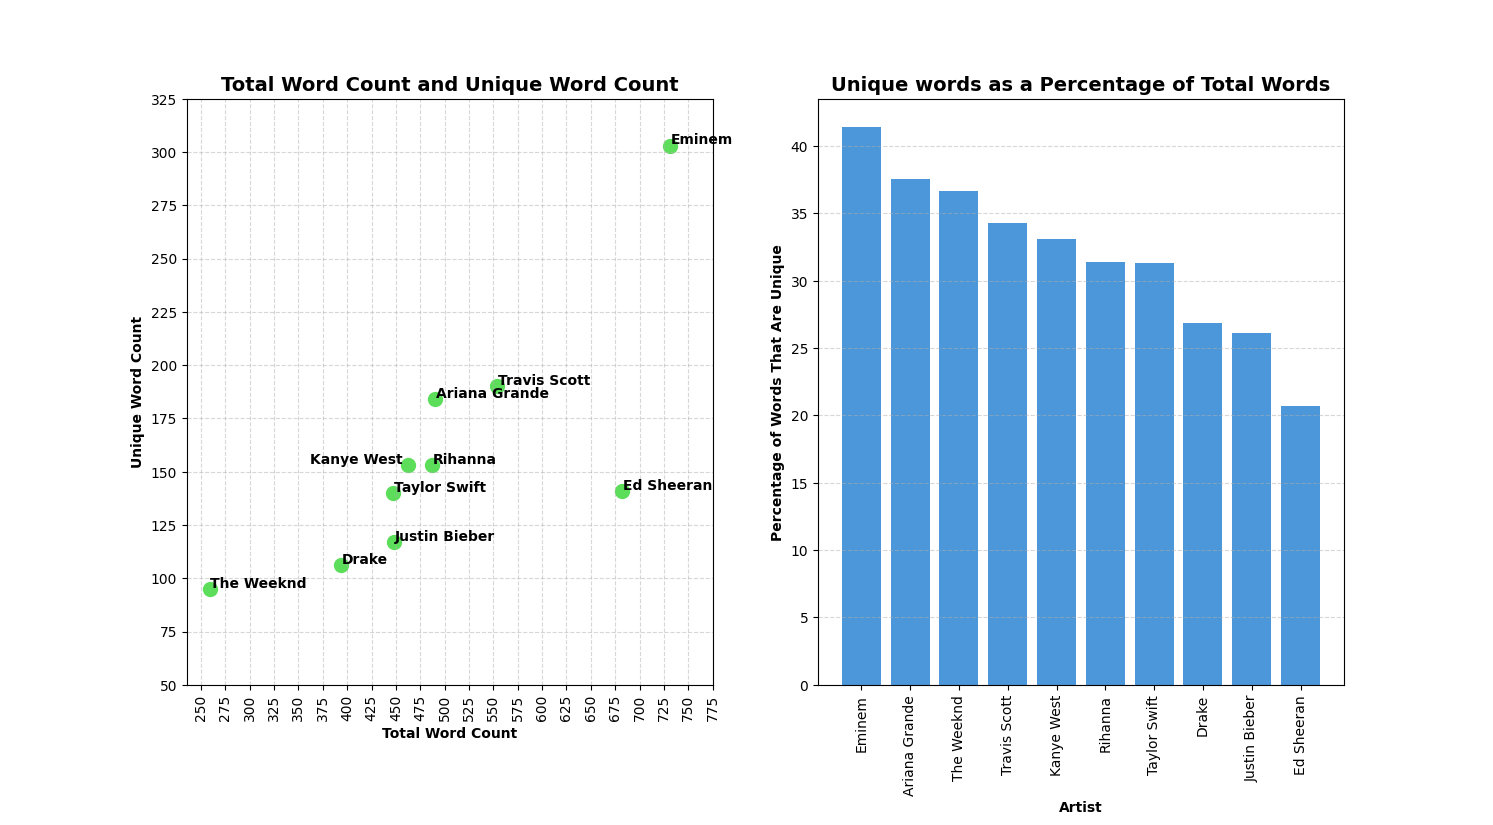
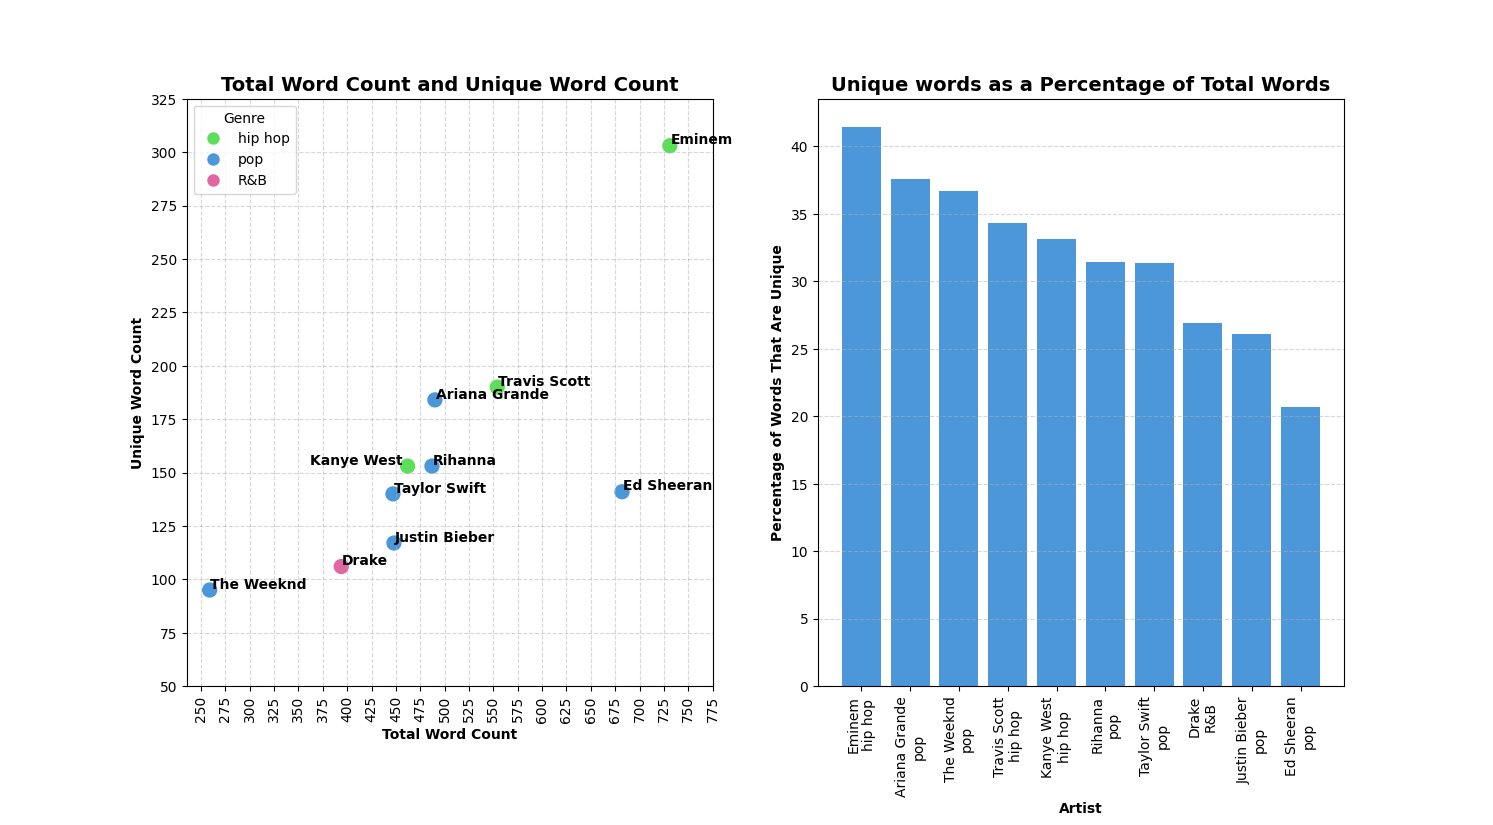
update word count graphs to include genre

diff --git a/Python_scripts/Outputs_scripts/word_count_graphs.py b/Python_scripts/Outputs_scripts/word_count_graphs.py
@@ -17,7 +17,7 @@ with sqlite3.connect('song_lyrics.db') as connection:
     WHERE song_id = ?;
     '''
     artist_query = '''
-    SELECT artist, song_id
+    SELECT artist, song_id, genre
     FROM song;
     '''
     word_count_df = pd.DataFrame((cursor.execute(artist_query)).fetchall())
@@ -29,21 +29,35 @@ with sqlite3.connect('song_lyrics.db') as connection:
         word_count.append(sum(word[0]))
         unique_word_count.append(len(word))
 
+#add to dataframe
 word_count_df['total count'] = word_count
 word_count_df['unique count'] = unique_word_count
         
 #We can now maka a scattergraph using this information
 fig, axs = plt.subplots(1,2)
 ax = fig.add_subplot(axs[0])
-axs[0].scatter(word_count,unique_word_count, color = '#5dde5b', s = 100)
+
+#make list to set each artist to the colour representing their genre
+color = []
+for genre in word_count_df[2]:
+    if genre == 'hip hop':
+        color += ['#5dde5b']
+    elif genre == 'pop':
+        color += ['#4c97d9']
+    elif genre == 'R&B':
+        color += ['#e067a2']
+
+#make scatter graph
+axs[0].scatter(word_count_df['total count'], word_count_df['unique count'], color = color, s = 100)
+
 #label each point (Kanye West needs different positioning so not to cause overlap)
 for i, txt in enumerate(word_count_df[0]):
     if txt == 'Kanye West':
-        ax.annotate(txt, (word_count[i] -100,unique_word_count[i]+0.8), fontweight = 'bold')
+        ax.annotate(txt, (word_count_df['total count'].iloc[i] -100, word_count_df['unique count'].iloc[i]+0.8), fontweight = 'bold')
     else:
-        ax.annotate(txt, (word_count[i] +0.8,unique_word_count[i]+0.8), fontweight = 'bold')
+        ax.annotate(txt, (word_count_df['total count'].iloc[i] +0.8, word_count_df['unique count'].iloc[i]+0.8), fontweight = 'bold')
 
-#add title and axis labels
+#add title,axis labels and grid
 axs[0].set_title('Total Word Count and Unique Word Count', fontsize = 14, fontweight = 'bold')
 axs[0].set_xticks(np.arange(250,800, 25))
 axs[0].set_yticks(np.arange(50,350,25))
@@ -52,20 +66,30 @@ axs[0].set_ylabel('Unique Word Count', fontweight = 'bold')
 axs[0].grid(linestyle = '--', alpha = 0.5)
 axs[0].set_xticklabels(labels =np.arange(250,800, 25), rotation = 'vertical')
 
+# add legend for colours representing genres
+genre = ['hip hop', 'pop', 'R&B']
+colors = ['#5dde5b', '#4c97d9', '#e067a2']
+axs[0].legend(handles = [plt.Line2D([0],[0], marker = 'o', color = 'w', label = genre[i], markerfacecolor = colors[i], markersize = 10) for i in range(3)], title = 'Genre')
+
+
 
 #next make a bar chart showing for each artist the percentage of words they used that were unique
 percentage = []
 for i,txt in enumerate(word_count_df[0]):
     percentage.append((unique_word_count[i]/word_count[i])*100)
 print(percentage)
+
 #set the order of the bars in descending order
 word_count_df['percentage'] = percentage
 word_count_df.sort_values(by= 'percentage', ascending = False, inplace = True)
 
-axs[1].bar(word_count_df[0], word_count_df['percentage'], color = '#4c97d9')
+#make bar chart
+axs[1].bar((word_count_df[0]), word_count_df['percentage'], color = '#4c97d9')
+#add title, axis labels, grid and format x axis labels
 axs[1].set_title('Unique words as a Percentage of Total Words', fontsize = 14, fontweight = 'bold')
 axs[1].set_xlabel('Artist', fontweight = 'bold')
 axs[1].set_ylabel('Percentage of Words That Are Unique', fontweight = 'bold')
 axs[1].grid(linestyle = '--', alpha = 0.5, axis = 'y')
-axs[1].set_xticklabels(word_count_df[0],rotation = 'vertical')
+axs[1].set_xticklabels((word_count_df[0] + '\n' + word_count_df[2]),rotation = 'vertical')
+
 plt.show()
